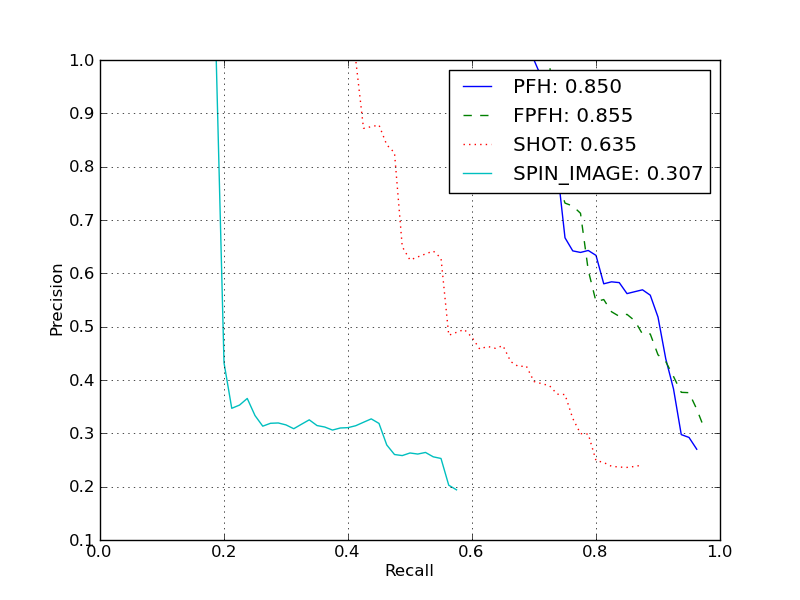
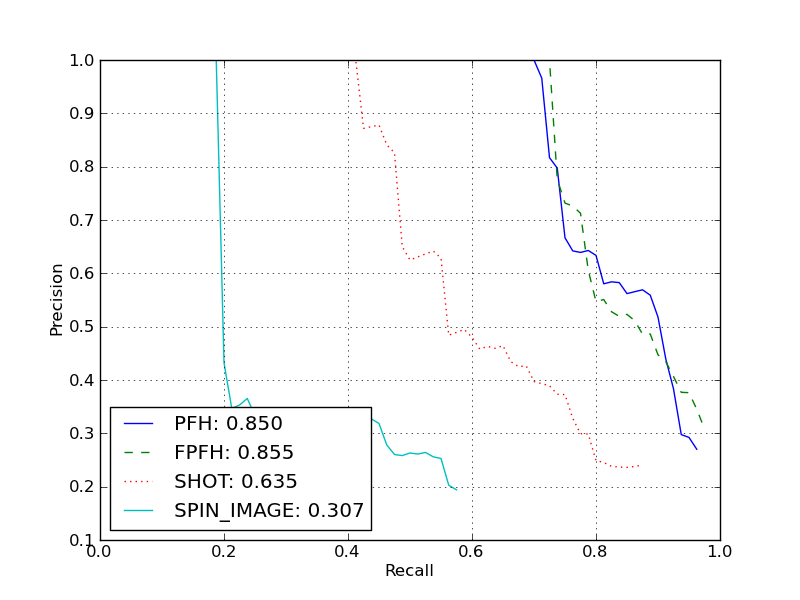
now plotting multi-feature rank histogram as well

Changed region(s): [[0.125, 0.66, 0.4688, 0.9], [0.5625, 0.09, 0.9062, 0.33], [0.5625, 0.18, 0.5938, 0.21]]

diff --git a/plotting/main.py b/plotting/main.py
@@ -23,13 +23,12 @@ class EvalSet:
       label = "%s: %.3f"%(e.feature,e.ap)
       lstyle = linestyles[mod(i,len(linestyles))]
       plot(e.recall,e.precision,lstyle,label=label)
-    legend()
+    legend(loc='lower left')
     xlabel('Recall')
     ylabel('Precision')
     grid(True)
 
-    filename = self.plot_location+"%s_pr.png"%('-'.join([f for f in features]))
-    savefig(filename)
+    self.savefig_wrap(features,'pr')
 
   def print_comparison_table(self, features=None):
     # TODO
@@ -43,26 +42,32 @@ class EvalSet:
     print("  Average rank: %s"%e.avg_rank)
     print("  AUH: %s"%e.auh)
 
-  def plot_rank_histogram(self, feature):
-    """Takes an evaluation and outputs its rank histogram to file."""
-    e = self.evals[feature]
+  def plot_rank_histogram(self, features=None):
+    if not features:
+      features = self.features
 
+    colors = ['blue','green','red','cyan']
     clf()
-    counts = e.rank_histogram_data() 
-    counts_r = 1.*counts/sum(counts)
+    width = .9/len(features)
     ind = arange(5)
-    width = 0.9
-    bar(ind,cumsum(counts_r),width=.9,color='black')
-    for i,count in enumerate(cumsum(counts_r)):
-      text(i+width/2.-.1, count*1.-.04, "%.3f"%count, color='white')
+    for i,feature in enumerate(features):
+      e = self.evals[feature]
+      counts = e.rank_histogram_data() 
+      counts_r = 1.*counts/sum(counts)
+      color = colors[mod(i, len(colors))]
+      # only print the value if doing one feature
+      if len(features)==1:
+        color = 'black'
+        for j,count in enumerate(cumsum(counts_r)):
+          text(j+width/2.-.1, count*1.-.04, "%.3f"%count, color='white')
+      bar(ind+i*width,cumsum(counts_r),color=color,width=width,label=feature)
     ranks = ['1','2','3','4','5+']
     xticks(ind+width/2., ranks) 
     xlabel('Number of top results within which the correct model is fetched')
-    #ylabel('Proportion')
     title('Area under the rank histogram is %.3f.'%e.auh)
-
-    filename = self.plot_location+"%s_rankhist.png"%e.feature
-    savefig(filename)
+    if len(features)>1:
+      legend(loc='upper left')
+    self.savefig_wrap(features,'rankhist')
 
   def plot_confusion_matrix(self,feature):
     """Takes an evaluation and outputs its confusion matrix to file."""
@@ -95,7 +100,12 @@ class EvalSet:
     xticks(arange(0, self.num_models), self.model_names, rotation=30, size='small')
     yticks(arange(0, self.num_models), self.model_names, size='small')
 
-    filename = self.plot_location+"%s_confmat.png"%e.feature
+    self.savefig_wrap([feature],'confmat')
+
+  def savefig_wrap(self, features, suffix):
+    """Saves the plot to a canonical name."""
+    feat_names = '-'.join([f for f in features])
+    filename = self.plot_location+"%s_%s.png"%(feat_names,suffix)
     savefig(filename)
 
 def main():
@@ -124,11 +134,12 @@ def main():
     eval_set.print_info(feature)
     # output plots
     eval_set.plot_confusion_matrix(feature)
-    eval_set.plot_rank_histogram(feature)
+    eval_set.plot_rank_histogram([feature])
     eval_set.plot_pr([feature])
 
   # Print feature comparison table and output PR plot
   eval_set.print_comparison_table()
+  eval_set.plot_rank_histogram()
   eval_set.plot_pr()
 
 if __name__ == '__main__':
